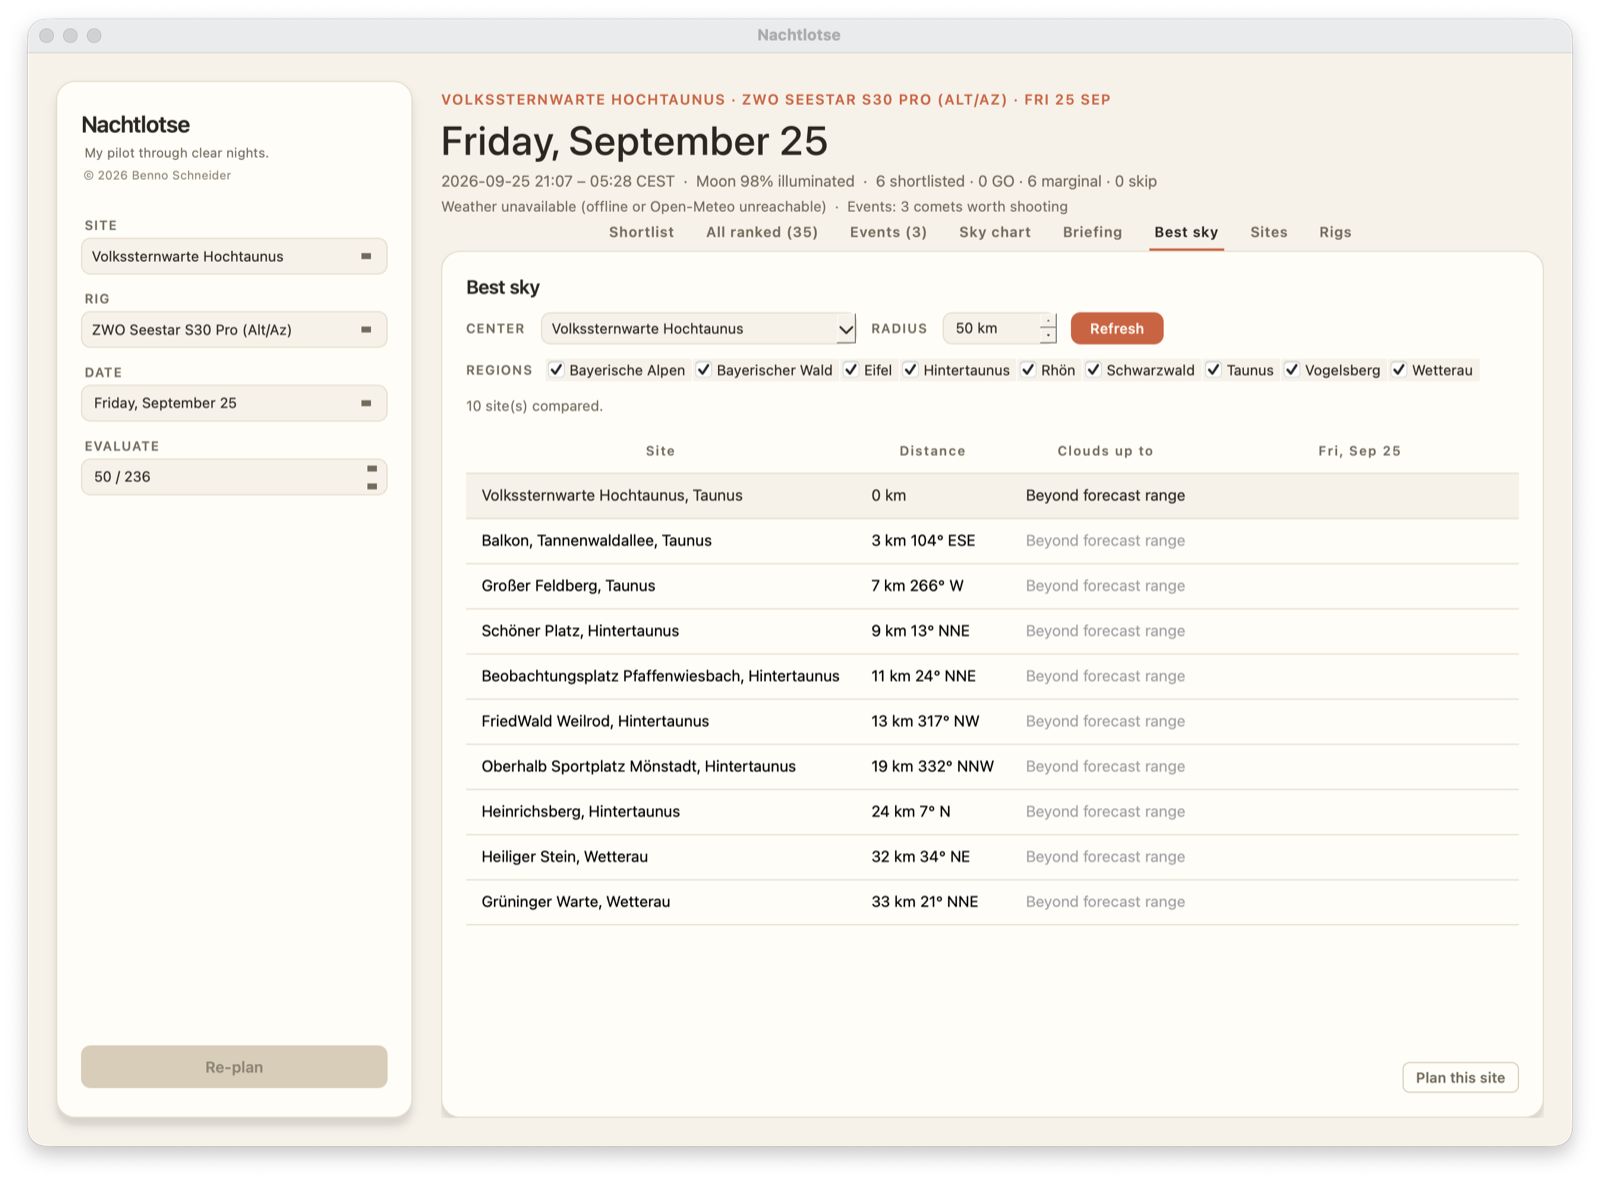
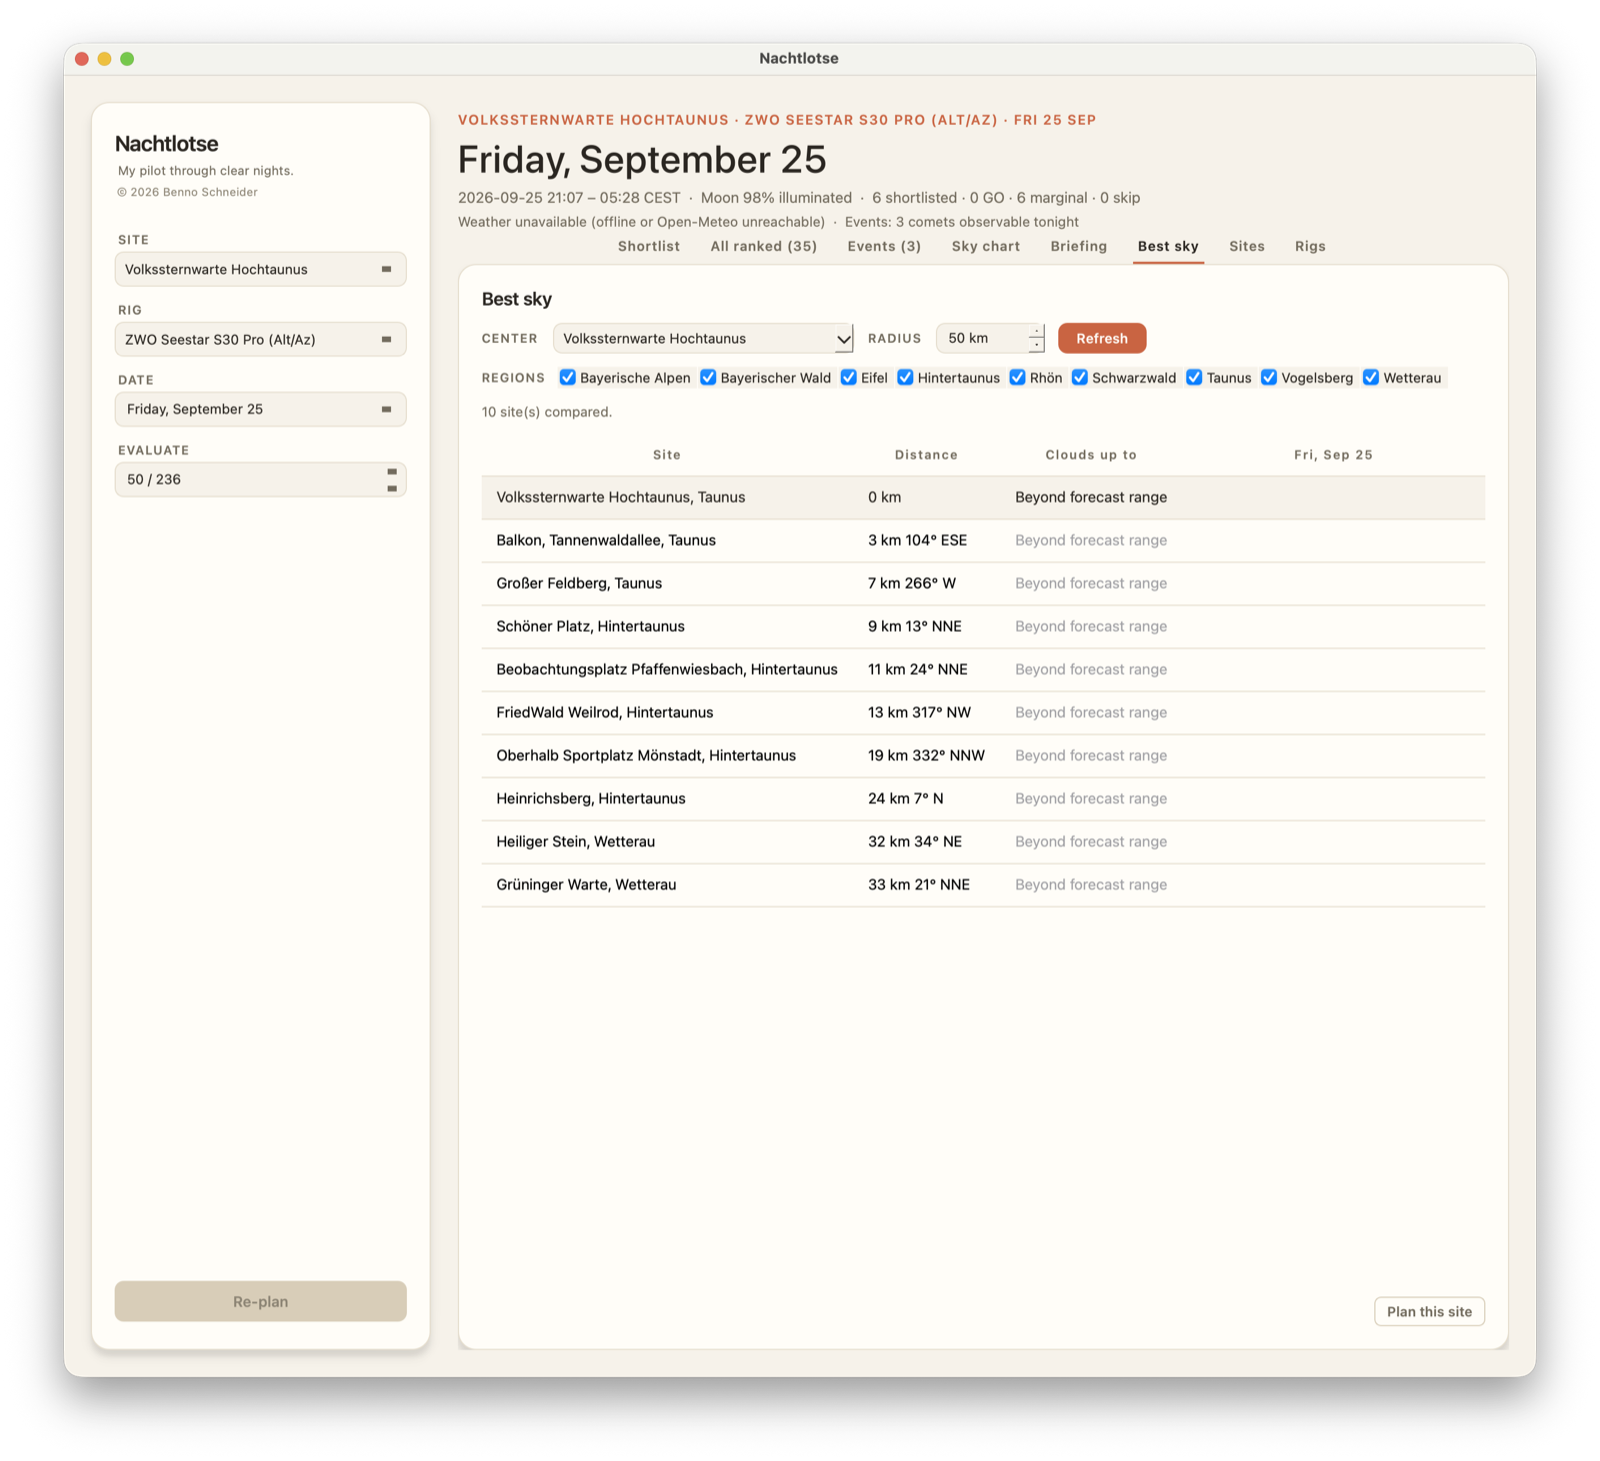
events: say "observable", not "worth shooting"
The current-events list means "observable tonight and bright enough";
the verdict then adds the weather. Headed "Worth shooting tonight", a
cloudy night printed "Verdict: SKIP" right under it. CLI headings, the
`lotse plan` block, `lotse events` help, and the GUI header now say
"observable"; screenshots regenerated.

diff --git a/nachtlotse/cli.py b/nachtlotse/cli.py
@@ -186,7 +186,7 @@ def _event_line(rank: int, event: planning.RankedEvent, local_tz: ZoneInfo) -> s
 
 
 def _print_events(report: planning.EventsReport | None, local_tz: ZoneInfo) -> None:
-    """`lotse plan`'s "Current events" block — the ones worth shooting
+    """`lotse plan`'s "Current events" block — the ones observable
     tonight, a count of the rest (`lotse events` lists them), and where
     the data came from."""
     if report is None:
@@ -194,7 +194,7 @@ def _print_events(report: planning.EventsReport | None, local_tz: ZoneInfo) -> N
     print()
     print("Current events (comets observed in the last two weeks):")
     if not report.events:
-        print("  none worth shooting tonight")
+        print("  none observable and bright enough tonight")
     for rank, event in enumerate(report.events, start=1):
         print(_event_line(rank, event, local_tz))
         print(f"       brightness: {event.magnitude_source}")
@@ -202,7 +202,7 @@ def _print_events(report: planning.EventsReport | None, local_tz: ZoneInfo) -> N
             print(f"       {reason}")
     if report.skipped:
         print(
-            f"  ({len(report.skipped)} more not worth shooting tonight — "
+            f"  ({len(report.skipped)} more not observable or too faint tonight — "
             "`lotse events` lists them with reasons)"
         )
     for note in report.notes:
@@ -544,7 +544,7 @@ def _cmd_events(
     site_name: str | None, rig_name: str | None, date_str: str | None
 ) -> int:
     """`lotse events`: every current event known right now — the ones
-    worth shooting tonight first, then the rest with the reason each
+    observable and bright enough tonight first, then the rest with the reason each
     doesn't make it."""
     try:
         site_record = (
@@ -584,7 +584,7 @@ def _cmd_events(
     print(f"Nachtlotse — current events · {site.name} ({rig.name})")
     print(f"Brightness limit for this rig here: {limit_text}")
     print()
-    print("Worth shooting tonight:")
+    print("Observable tonight and bright enough:")
     if not report.events:
         print("  none")
     for rank, event in enumerate(report.events, start=1):
@@ -916,7 +916,7 @@ def main(argv: list[str] | None = None) -> int:
 
     events_parser = subparsers.add_parser(
         "events",
-        help="List current events (comets) — worth shooting tonight, and why not",
+        help="List current events (comets) — observable tonight, and why the rest aren't",
     )
     events_parser.add_argument(
         "--site",

diff --git a/nachtlotse/gui/data_adapter.py b/nachtlotse/gui/data_adapter.py
@@ -530,7 +530,7 @@ def build_framing_view(
 
 @dataclass(frozen=True)
 class EventRow:
-    """One current event worth shooting tonight, display-ready."""
+    """One current event observable and bright enough tonight, display-ready."""
 
     label: str
     type_label: str
@@ -596,15 +596,15 @@ def build_skipped_event_rows(plan: NightPlan) -> list[SkippedEventRow]:
 
 
 def events_status_text(plan: NightPlan) -> str:
-    """One line for the header: how many events are worth shooting, or
+    """One line for the header: how many events are observable tonight, or
     why there are none to show."""
     if plan.events is None:
         return ""
     count = len(plan.events.events)
     if count:
-        return f"Events: {count} comet{'' if count == 1 else 's'} worth shooting"
+        return f"Events: {count} comet{'' if count == 1 else 's'} observable tonight"
     if any(note.startswith("Comets unavailable") for note in plan.events.notes):
         return "Events unavailable (offline or sources unreachable)"
     if any(note.startswith("Current events only cover") for note in plan.events.notes):
         return "Events: only for nights within two weeks of today"
-    return "Events: no comet worth shooting tonight"
+    return "Events: no comet observable tonight"

diff --git a/tests/test_cli.py b/tests/test_cli.py
@@ -768,7 +768,7 @@ def test_plan_command_lists_comets_worth_shooting(
     block = output[output.index("Current events") :]
     assert "161P/Hartley-IRAS · comet · 11.4 mag" in block
     assert "brightness: COBS: median of 47 reports" in block
-    assert "more not worth shooting tonight" in block
+    assert "more not observable or too faint tonight" in block
 
 
 def test_events_command_lists_every_comet_with_a_reason(
@@ -776,7 +776,7 @@ def test_events_command_lists_every_comet_with_a_reason(
 ) -> None:
     assert cli.main(["events", "--date", "2026-10-04"]) == 0
     output = capsys.readouterr().out
-    assert "Worth shooting tonight:" in output
+    assert "Observable tonight and bright enough:" in output
     assert "C/2026 A2 (Bok)" in output
     assert "Not tonight:" in output
     assert "10P/Tempel" in output and "not observable tonight" in output

diff --git a/tests/test_gui_data_adapter.py b/tests/test_gui_data_adapter.py
@@ -621,10 +621,10 @@ def test_build_skipped_event_rows_keeps_the_reason() -> None:
 def test_events_status_text_counts_or_explains() -> None:
     assert data_adapter.events_status_text(_night_plan([])) == ""  # not gathered
     one = replace(_night_plan([]), events=_events_report([_comet_event()]))
-    assert data_adapter.events_status_text(one) == "Events: 1 comet worth shooting"
+    assert data_adapter.events_status_text(one) == "Events: 1 comet observable tonight"
     none = replace(_night_plan([]), events=_events_report())
     assert data_adapter.events_status_text(none) == (
-        "Events: no comet worth shooting tonight"
+        "Events: no comet observable tonight"
     )
     offline = replace(
         _night_plan([]), events=_events_report(notes=["Comets unavailable: offline"])

diff --git a/nachtlotse/gui/main_window.py b/nachtlotse/gui/main_window.py
@@ -318,7 +318,7 @@ class MainWindow(QMainWindow):
         ranked_layout.addWidget(self.ranked_table)
         self.tabs.addTab(ranked_card, "All ranked")
 
-        # Current events (ROADMAP.md): comets worth shooting tonight, then
+        # Current events (ROADMAP.md): comets observable tonight, then
         # the rest with reasons — the GUI's `lotse events`.
         events_card = RoundedCard()
         events_layout = QVBoxLayout(events_card)

diff --git a/nachtlotse/planning.py b/nachtlotse/planning.py
@@ -672,7 +672,7 @@ EVENTS_HORIZON_DAYS = 14
 
 
 class RankedEvent(NamedTuple):
-    """A current event that's worth shooting tonight: observable (the same
+    """A current event that's a candidate tonight: observable (the same
     constraints as any catalog target) and bright enough for the rig
     (`framing.event_limiting_magnitude`)."""
 
